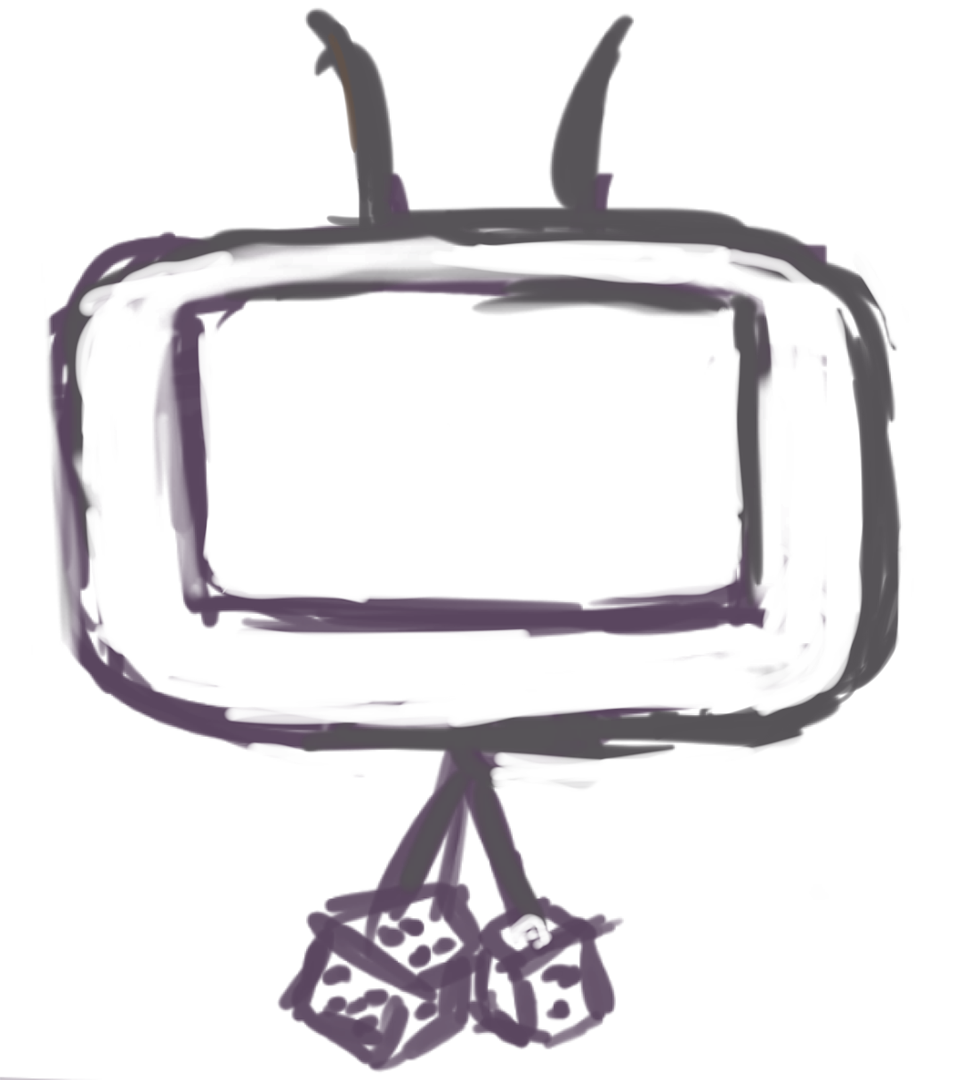
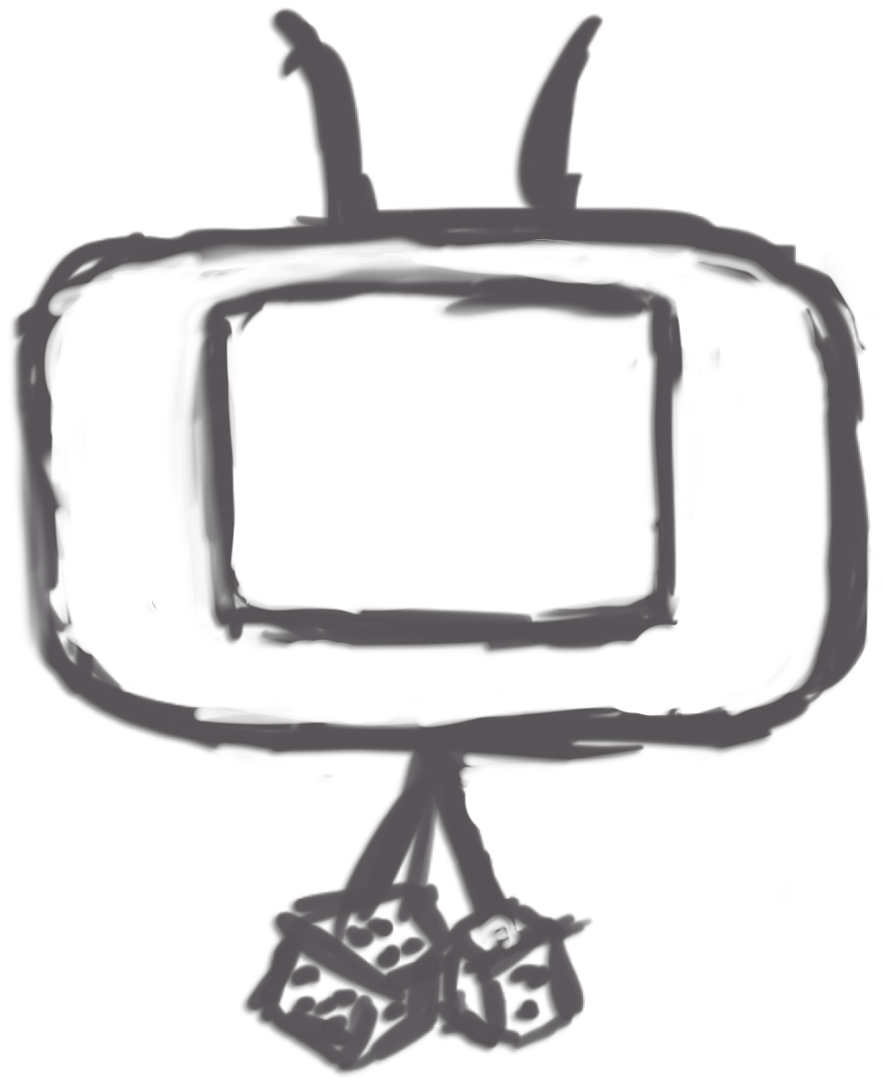
add webcam to backmirror on menu scene

Changed region(s): [[0.0, 0.0, 1.0, 1.0], [0.3058, 0.0, 0.3975, 0.1528], [0.0, 0.9778, 0.0306, 1.0]]

diff --git a/app/src/gj_driving_home/scenes/menuScene.ts b/app/src/gj_driving_home/scenes/menuScene.ts
@@ -3,6 +3,7 @@ import {SceneDescription} from "../sceneDescription";
 import {SceneHelper} from "./sceneHelper";
 import {SceneLoadingData} from "./sceneLoadingData";
 import {AssetGlobals} from "../assetsGlobals";
+import Webcam from "../video";
 
 export class MenuScene extends Phaser.Scene {
 
@@ -29,11 +30,26 @@ export class MenuScene extends Phaser.Scene {
 
     create(): void {
         console.log("menu scene created")
+        this.cameras.main.setBackgroundColor("#FFFFFF");
+        Webcam.getInstance().updateCamCanvas(this.textures);
+        let image = this.add.image(
+            this.game.renderer.width/2,
+            0.54 * (this.game.renderer.height / 2),
+            "webcam"
+        );
+        image.setOrigin(0.5, 0);
+        image.setScale(0.7);
+        image.flipX = true;
 
-        this.add.image(this.game.renderer.width/2,this.game.renderer.height/2,AssetGlobals.BG_IMAGE_MENU);
 
-        let centerX = this.game.renderer.width / 3;
+        this.add.image(
+            this.game.renderer.width/2,
+            this.game.renderer.height/2,
+            AssetGlobals.BG_IMAGE_MENU);
+
+        let centerX = this.game.renderer.width / 3.2;
         let centerY = 4 * (this.game.renderer.height / 5);
+
 
         let btnGap = (centerX / 3);
         let btnPlay = this.add.image(centerX, centerY, AssetGlobals.BTN_BG).setScale(0.5, 0.5);
@@ -78,6 +94,5 @@ export class MenuScene extends Phaser.Scene {
         });
 
     }
-
 
 }
